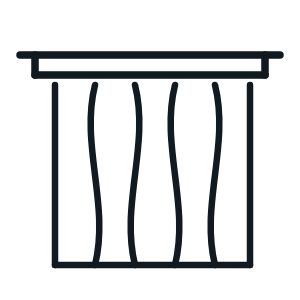
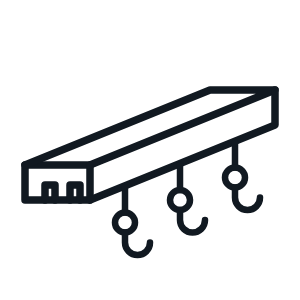
SvetLamp theme: no repeated page name in breadcrumbs, cornice drawing
The last breadcrumb is hidden because the H1 right below names the same
page. New drawing for the cornice subcategory: a ceiling track with
runners.

Claude-Session: https://claude.ai/code/session_01Aisix9cjafinYz8E34xFfd

Changed region(s): [[0.06, 0.15, 0.96, 0.9]]

diff --git a/svetlamp51/ocstore/upload/catalog/view/theme/svetlamp/stylesheet/svetlamp-pages.css b/svetlamp51/ocstore/upload/catalog/view/theme/svetlamp/stylesheet/svetlamp-pages.css
@@ -19,7 +19,8 @@ body.sl-body .breadcrumb > li:after { display: none; }
 body.sl-body .breadcrumb > li + li:before { content: "›"; padding: 0 10px; color: var(--muted); }
 body.sl-body .breadcrumb > li > a { color: var(--muted); text-decoration: none; }
 body.sl-body .breadcrumb > li > a:hover { color: var(--ink); }
-body.sl-body .breadcrumb > li:last-child > a { color: var(--ink); }
+/* The current page is already the H1 right below, so the last crumb is not repeated */
+body.sl-body .breadcrumb > li:last-child:not(:first-child) { display: none; }
 body.sl-body .breadcrumb .fa-home { font-size: 16px; }
 
 /* ---------- Type ---------- */
